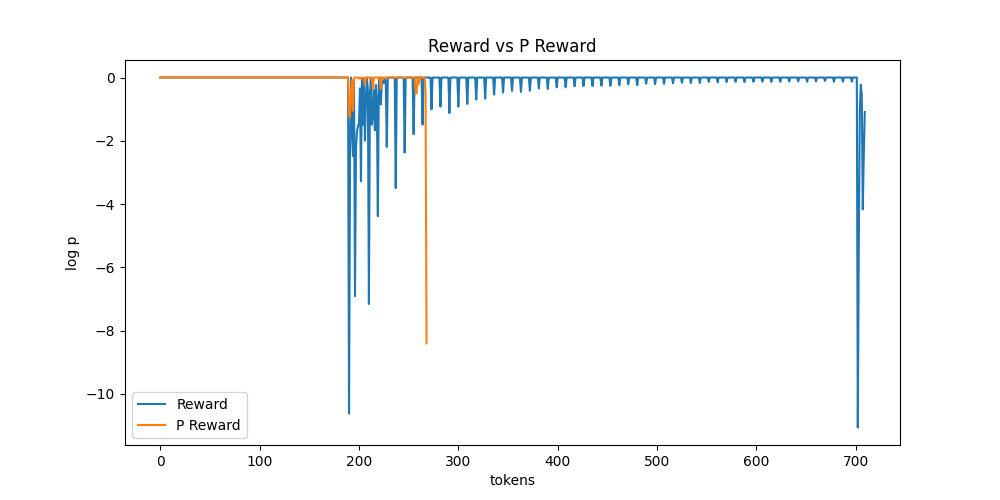
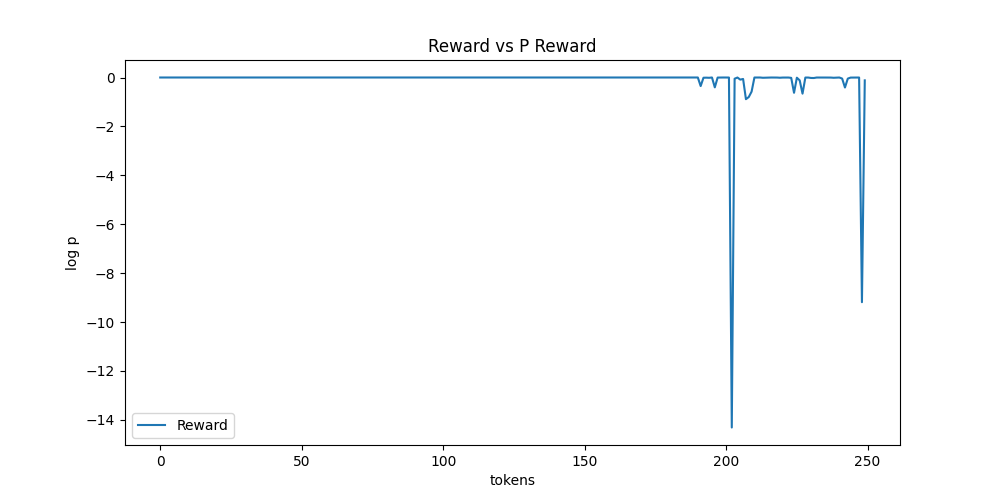
rewnorm

diff --git a/probing.py b/probing.py
@@ -25,6 +25,7 @@ import lm_eval
 import subprocess
 
 import logging
+import re
 @dataclass
 class ScriptArguments:
     """
@@ -131,9 +132,9 @@ model = AutoModelForCausalLM.from_pretrained(
 model.config.use_cache = not script_args.gradient_checkpointing
 VOCAB_SIZE = model.config.vocab_size
 
-x_str = "Answer the question based on the following example:\nQuestion: Samantha’s last name has three fewer letters than Bobbie’s last name. If Bobbie took two letters off her last name, she would have a last name twice the length of Jamie’s. Jamie’s full name is Jamie Grey. How many letters are in Samantha’s last name? Answer: There are 4 letters in Jamie’s last name, so Bobbie’s name is 4*2 +2 = 10 letters long. Samantha’s last name is 3 letters shorter than Bobbie’s, so there are 10 - 3 = 7 letters in Samantha’s last name.\nQuestion: Matthias has 40 soccer balls and 15 basketballs. 30 soccer balls and 7 basketballs have a hole in them. How many balls in total does Matthias have without holes in them?"
-xz_str = "Answer the question based on the following example:\nQuestion: Samantha’s last name has three fewer letters than Bobbie’s last name. If Bobbie took two letters off her last name, she would have a last name twice the length of Jamie’s. Jamie’s full name is Jamie Grey. How many letters are in Samantha’s last name? Answer: There are 4 letters in Jamie’s last name, so Bobbie’s name is 4*2 +2 = 10 letters long. Samantha’s last name is 3 letters shorter than Bobbie’s, so there are 10 - 3 = 7 letters in Samantha’s last name.\nQuestion: Matthias has 40 soccer balls and 15 basketballs. 30 soccer balls and 7 basketballs have a hole in them. How many balls in total does Matthias have without holes in them? That’s a lot of work, but I’m going to do it step by step. That’s the way to do it. That’s the way to do it. That’s the way to do it. That’s the way to do it. That’s the way to do it. That’s the way to do it. That’s the way to do it. That’s the way to do it. That’s the way to do it. That’s the way to do it. That’s the way to do it. That’s the way to do it. That’s the way to do it. That’s the way to do it. That’s the way to do it. That’s the way to do it. That’s the way to do it. That’s the way to do it. That’s the way to do it. That’s the way to do it. That’s the way to do it. That’s the way to do it. That’s the way to do it. That’s the way to do it. That’s the way to do it. That’s the way to do it. That’s the way to do it. That’s the way to do it. That’s the way to do it. That’s the way to do it. That’s the way to do it. That’s the way to do it. That’s the way to do it. That’s the way to do it. That’s the way to do it. That’s the way to do it. That’s the way to do it. That’s the way to do it. That’s the way to do it. That’s the way to do it. That’s the way to do it. That’s the way to do it. That’s the way to do it. That’s the way to do it. That’s the way to do it. That’s the way to do it. That’s the way to do it. That’s the way to do it. That’s the way to do it. That’s the way to do it. That’s the way to do it. That’s the way to do it. That’s the way to do it. That’s the way to do it. That’s the way to"
-xzy_str = "Answer the question based on the following example:\nQuestion: Samantha’s last name has three fewer letters than Bobbie’s last name. If Bobbie took two letters off her last name, she would have a last name twice the length of Jamie’s. Jamie’s full name is Jamie Grey. How many letters are in Samantha’s last name? Answer: There are 4 letters in Jamie’s last name, so Bobbie’s name is 4*2 +2 = 10 letters long. Samantha’s last name is 3 letters shorter than Bobbie’s, so there are 10 - 3 = 7 letters in Samantha’s last name.\nQuestion: Matthias has 40 soccer balls and 15 basketballs. 30 soccer balls and 7 basketballs have a hole in them. How many balls in total does Matthias have without holes in them? That’s a lot of work, but I’m going to do it step by step. That’s the way to do it. That’s the way to do it. That’s the way to do it. That’s the way to do it. That’s the way to do it. That’s the way to do it. That’s the way to do it. That’s the way to do it. That’s the way to do it. That’s the way to do it. That’s the way to do it. That’s the way to do it. That’s the way to do it. That’s the way to do it. That’s the way to do it. That’s the way to do it. That’s the way to do it. That’s the way to do it. That’s the way to do it. That’s the way to do it. That’s the way to do it. That’s the way to do it. That’s the way to do it. That’s the way to do it. That’s the way to do it. That’s the way to do it. That’s the way to do it. That’s the way to do it. That’s the way to do it. That’s the way to do it. That’s the way to do it. That’s the way to do it. That’s the way to do it. That’s the way to do it. That’s the way to do it. That’s the way to do it. That’s the way to do it. That’s the way to do it. That’s the way to do it. That’s the way to do it. That’s the way to do it. That’s the way to do it. That’s the way to do it. That’s the way to do it. That’s the way to do it. That’s the way to do it. That’s the way to do it. That’s the way to do it. That’s the way to do it. That’s the way to do it. That’s the way to do it. That’s the way to do it. That’s the way to do it. That’s the way to do it. That’s the way to\nThe answer is 18."
+x_str = "Question: Samantha’s last name has three fewer letters than Bobbie’s last name. If Bobbie took two letters off her last name, she would have a last name twice the length of Jamie’s. Jamie’s full name is Jamie Grey. How many letters are in Samantha’s last name?\nAnswer: There are 4 letters in Jamie’s last name, so Bobbie’s name is 4*2 +2 = 10 letters long. Samantha’s last name is 3 letters shorter than Bobbie’s, so there are 10 - 3 = 7 letters in Samantha’s last name.\nThe answer is 7.\nQuestion: Matthias has 40 soccer balls and 15 basketballs. 30 soccer balls and 7 basketballs have a hole in them. How many balls in total does Matthias have without holes in them?\nAnswer:"
+xz_str = "Question: Samantha’s last name has three fewer letters than Bobbie’s last name. If Bobbie took two letters off her last name, she would have a last name twice the length of Jamie’s. Jamie’s full name is Jamie Grey. How many letters are in Samantha’s last name?\nAnswer: There are 4 letters in Jamie’s last name, so Bobbie’s name is 4*2 +2 = 10 letters long. Samantha’s last name is 3 letters shorter than Bobbie’s, so there are 10 - 3 = 7 letters in Samantha’s last name.\nThe answer is 7.\nQuestion: Matthias has 40 soccer balls and 15 basketballs. 30 soccer balls and 7 basketballs have a hole in them. How many balls in total does Matthias have without holes in them?\nAnswer: Matthias has 40 - 30 = 10 soccer balls without holes. He has 15 - 7 = 8 basketballs without holes. In total, Matthias has 10 + 8 = 18 balls without holes."
+xzy_str = "Question: Samantha’s last name has three fewer letters than Bobbie’s last name. If Bobbie took two letters off her last name, she would have a last name twice the length of Jamie’s. Jamie’s full name is Jamie Grey. How many letters are in Samantha’s last name?\nAnswer: There are 4 letters in Jamie’s last name, so Bobbie’s name is 4*2 +2 = 10 letters long. Samantha’s last name is 3 letters shorter than Bobbie’s, so there are 10 - 3 = 7 letters in Samantha’s last name.\nThe answer is 7.\nQuestion: Matthias has 40 soccer balls and 15 basketballs. 30 soccer balls and 7 basketballs have a hole in them. How many balls in total does Matthias have without holes in them?\nAnswer: Matthias has 40 - 30 = 10 soccer balls without holes. He has 15 - 7 = 8 basketballs without holes. In total, Matthias has 10 + 8 = 18 balls without holes.\nThe answer is 18."
 y_str = xzy_str[len(xz_str):]
 
 inputs = tokenizer(x_str, return_tensors="pt")
@@ -162,43 +163,55 @@ my_loss = regularized_logp(outputs.logits, xzy_labels, VOCAB_SIZE, script_args.l
 reward = - my_loss.detach()
 print("reward=", reward)
 
-pure_rational = model.generate(input_ids=x, max_new_tokens=512, tokenizer=tokenizer, do_sample=False)
-pure_rational_str = tokenizer.decode(pure_rational[0], skip_special_tokens=True)
-print("pure_rational=", tokenizer.decode(pure_rational[0], skip_special_tokens=True))
+# pure_rational = model.generate(input_ids=x, max_new_tokens=512, tokenizer=tokenizer, do_sample=False)
+# pure_rational_str = tokenizer.decode(pure_rational[0], skip_special_tokens=True)
+# print("pure_rational=", tokenizer.decode(pure_rational[0], skip_special_tokens=True))
 
-pure_rational_tok = tokenizer(pure_rational_str, return_tensors="pt")
-pure_rational = pure_rational_tok["input_ids"].to(model.device)
-pure_rational_mask = pure_rational_tok["attention_mask"].to(model.device)
-pure_rational_labels = deepcopy(pure_rational)
+# # Extract the generated answer part
+# generated_answer_part = pure_rational_str[len(x_str):]
 
-pure_rational_y_str = pure_rational_str + y_str
-pure_rational_y_tok = tokenizer(pure_rational_y_str, return_tensors="pt")
-pure_rational_y = pure_rational_y_tok["input_ids"].to(model.device)
-pure_rational_y_mask = pure_rational_y_tok["attention_mask"].to(model.device)
-pure_rational_y_labels = deepcopy(pure_rational_y)
+# # Use regex to find "The answer is d." where d is an integer
+# # match = re.search(r"The answer is (\d+)\.", generated_answer_part)
 
-x_mask_py = torch.cat([x_mask, torch.zeros((x_mask.shape[0], pure_rational_y.shape[1] - x.shape[1]), dtype=x_mask.dtype).to(x_mask.device)], dim=1)
-x_mask_p = torch.cat([x_mask, torch.zeros((x_mask.shape[0], pure_rational.shape[1] - x.shape[1]), dtype=x_mask.dtype).to(x_mask.device)], dim=1)
+# # if match:
+# #     answer = int(match.group(1))
+# #     print(f"The answer is {answer}.")
+# # else:
+# #     print("No answer found.")
 
-p_labels = -100 * x_mask_p + pure_rational_labels * (1 - x_mask_p)
-py_labels = -100 * x_mask_py + pure_rational_y_labels * (1 - x_mask_py)
+# pure_rational_tok = tokenizer(pure_rational_str, return_tensors="pt")
+# pure_rational = pure_rational_tok["input_ids"].to(model.device)
+# pure_rational_mask = pure_rational_tok["attention_mask"].to(model.device)
+# pure_rational_labels = deepcopy(pure_rational)
 
-p_outputs = model(pure_rational, labels=p_labels, attention_mask=pure_rational_mask)
-p_loss = regularized_logp(p_outputs.logits, p_labels, VOCAB_SIZE, script_args.label_smoothing, "none")
-p_reward = - p_loss.detach()
-print("p_reward=", p_reward)
+# pure_rational_y_str = pure_rational_str + y_str
+# pure_rational_y_tok = tokenizer(pure_rational_y_str, return_tensors="pt")
+# pure_rational_y = pure_rational_y_tok["input_ids"].to(model.device)
+# pure_rational_y_mask = pure_rational_y_tok["attention_mask"].to(model.device)
+# pure_rational_y_labels = deepcopy(pure_rational_y)
+
+# x_mask_py = torch.cat([x_mask, torch.zeros((x_mask.shape[0], pure_rational_y.shape[1] - x.shape[1]), dtype=x_mask.dtype).to(x_mask.device)], dim=1)
+# x_mask_p = torch.cat([x_mask, torch.zeros((x_mask.shape[0], pure_rational.shape[1] - x.shape[1]), dtype=x_mask.dtype).to(x_mask.device)], dim=1)
+
+# p_labels = -100 * x_mask_p + pure_rational_labels * (1 - x_mask_p)
+# py_labels = -100 * x_mask_py + pure_rational_y_labels * (1 - x_mask_py)
+
+# p_outputs = model(pure_rational, labels=p_labels, attention_mask=pure_rational_mask)
+# p_loss = regularized_logp(p_outputs.logits, p_labels, VOCAB_SIZE, script_args.label_smoothing, "none")
+# p_reward = - p_loss.detach()
+# print("p_reward=", p_reward)
 
 
 import matplotlib.pyplot as plt
 
 # Assuming reward and p_reward are tensors, convert them to numpy arrays for plotting
 reward_np = reward.cpu().numpy()
-p_reward_np = p_reward.cpu().numpy()
+# p_reward_np = p_reward.cpu().numpy()
 
 # Plotting the rewards
 plt.figure(figsize=(10, 5))
 plt.plot(reward_np, label='Reward')
-plt.plot(p_reward_np, label='P Reward')
+# plt.plot(p_reward_np, label='P Reward')
 plt.xlabel('tokens')
 plt.ylabel('log p')
 plt.title('Reward vs P Reward')

diff --git a/E_step_ent_td.py b/E_step_ent_td.py
@@ -25,6 +25,7 @@ import lm_eval
 import subprocess
 
 import logging
+import copy
 @dataclass
 class ScriptArguments:
     """
@@ -131,7 +132,7 @@ data_name = train_set_path.split("/")[1]
 
 
 if script_args.model_path == "None":
-    trained_model_name = f"new_{base_model_name}_{data_name}_ent{script_args.ent_coeff}_\
+    trained_model_name = f"new_worep_rewnorm_{base_model_name}_{data_name}_ent{script_args.ent_coeff}_\
 beam{script_args.num_beams}_dosample{script_args.do_sample}_temp{script_args.temperature}_labelsm{script_args.label_smoothing}_\
 totalepoch{script_args.num_train_epochs}"
     output_name = f"/projects/p32658/Q_models/{trained_model_name}"
@@ -210,42 +211,18 @@ def padding_func(ft_ls, padding_side, pad_token_id, return_tensors):
     if return_tensors == "pt":
         return torch.tensor(padded_ft_ls)
 
-# # Create a logger
-# logger = logging.getLogger(__name__)
-# logger.setLevel(logging.DEBUG)
-
-# # Create a file handler
-# log_file = os.path.join(output_name, 'training.log')
-# file_handler = logging.FileHandler(log_file)
-# file_handler.setLevel(logging.DEBUG)
-
-# # Create a console handler
-# console_handler = logging.StreamHandler()
-# console_handler.setLevel(logging.INFO)
-
-# # Create a formatter and set it for the handlers
-# formatter = logging.Formatter('%(asctime)s - %(name)s - %(levelname)s - %(message)s')
-# file_handler.setFormatter(formatter)
-# console_handler.setFormatter(formatter)
-
-# # Add the handlers to the logger
-# logger.addHandler(file_handler)
-# logger.addHandler(console_handler)
-
-# # Example usage
-# logger.info("Logger is set up.")
-# XZYs = []
-
-
 Log_path = f"{output_name}/loggings.log"
 
 class QTrainer(Trainer):
     def __init__(self, base_model, log_path, **kwargs):
         super().__init__(**kwargs)
+        self.q_model = copy.deepcopy(self.model)
         if self.is_deepspeed_enabled:
             self.base_model = self._prepare_deepspeed(base_model)
+            self.q_model = self._prepare_deepspeed(self.q_model)
         else:
             self.base_model = self.accelerator.prepare_model(base_model, evaluation_mode=True)
+            self.q_model = self.accelerator.prepare_model(self.q_model, evaluation_mode=True)
         handler = logging.FileHandler(log_path, mode='w')
         handler.setFormatter(logging.Formatter('%(asctime)s,%(msecs)d %(name)s %(levelname)s %(message)s'))
         self.logger = logging.getLogger('testing')
@@ -258,22 +235,6 @@ class QTrainer(Trainer):
             inputs_ids_q_l = inputs["input_ids_q_l"]
             inputs_ids_a_r = inputs["input_ids_a_r"][:, 1:]
             mask_q_l = inputs["attention_mask_q_l"]
-            # print("inputs_ids_q_l.shape:", inputs_ids_q_l.shape)
-            # test_str = "Answer the question based on the following example:\nQuestion: Samantha’s last name has three fewer letters than Bobbie’s last name. If Bobbie took two letters off her last name, she would have a last name twice the length of Jamie’s. Jamie’s full name is Jamie Grey. How many letters are in Samantha’s last name? Answer: There are 4 letters in Jamie’s last name, so Bobbie’s name is 4*2 +2 = 10 letters long. Samantha’s last name is 3 letters shorter than Bobbie’s, so there are 10 - 3 = 7 letters in Samantha’s last name.\nQuestion: Corey downloaded two movie series from his Netflix account with 12 and 14 seasons per series, respectively. However, in the week, his computer got a mechanical failure, and he lost two episodes from each season for both series. If each season in the movie series that Corey downloaded had 16 episodes, how many episodes remained after the computer's mechanical failure?"
-            # input_ids = tokenizer(test_str, return_tensors="pt")["input_ids"].to(inputs_ids_q_l.device)
-            # test_rational = model.generate(input_ids=input_ids, max_new_tokens=512,\
-            #                            tokenizer=tokenizer,
-            #                           do_sample=False, top_k=-1, top_p=1.0,
-            #                           num_beams=1)
-            # test_rational_decode = tokenizer.decode(test_rational[0])
-            # print("test_rational_decode:", test_rational_decode)
-
-            xz = []
-            xz_mask = []
-            xzy = []
-            xzy_mask = []
-
-
 
             rational = model.generate(input_ids=inputs_ids_q_l, attention_mask=mask_q_l, \
                                       max_new_tokens=script_args.max_length, \
@@ -281,27 +242,30 @@ class QTrainer(Trainer):
                                     #   stop_strings=task_config.stop_str_gen_z[0], 
                                       tokenizer=tokenizer,
                                       do_sample=script_args.do_sample, temperature=script_args.temperature, top_k=50, top_p=0.95,
-                                      num_beams=script_args.num_beams)
-            # print("rational:", rational)
-            # print("rational_decode:", tokenizer.batch_decode(rational, skip_special_tokens=False))
-            # rational_logits = model(input_ids=inputs_ids_q_l, attention_mask=mask_q_l, return_dict=True).logits
-            # print("rational_logits:", rational_logits)
-            query_decode = tokenizer.batch_decode(inputs_ids_q_l, skip_special_tokens=True)
+                                      num_beams=script_args.num_beams, repetition_penalty=1.2)
+            xz = []
+            xz_mask = []
+            xzy = []
+            xzy_mask = []
+            
             rational_decode = tokenizer.batch_decode(rational, skip_special_tokens=True)
             answer_decode = tokenizer.batch_decode(inputs_ids_a_r, skip_special_tokens=True)
-            print("special_tokens:", tokenizer.special_tokens_map)
-            
-            self.logger.info(f"query_decode:{query_decode}")
-            self.logger.info(f"rational_decode:{rational_decode}")
-            self.logger.info(f"answer_decode:{answer_decode}")
-            for i in range(len(rational_decode)):
-                xz_tok = tokenizer(rational_decode[i] + "\n")
+
+            for i in range(len(rational)):
+                first_rat_ids = rational[i][len(inputs_ids_q_l[i])]
+                first_rat_tok = tokenizer.decode(first_rat_ids)
+                print("rational_decode[i]:", rational_decode[i])
+                print("first_rat_tok:", first_rat_tok)
+                if first_rat_ids in tokenizer.all_special_ids:
+                    xz_tok = tokenizer(rational_decode[i]+ first_rat_tok)
+                else:
+                    xz_tok = tokenizer(rational_decode[i])
                 xz.append(xz_tok["input_ids"])
                 xz_mask.append(xz_tok["attention_mask"])
-                
                 xzy_tok = tokenizer(rational_decode[i] + "\n" + answer_decode[i])
                 xzy.append(xzy_tok["input_ids"])
                 xzy_mask.append(xzy_tok["attention_mask"])
+            
             xz = padding_func(xz, "right", tokenizer.pad_token_id, "pt").to(inputs_ids_q_l.device)
             xz_mask = padding_func(xz_mask, "right", 0, "pt").to(inputs_ids_q_l.device)
             xz_labels = deepcopy(xz)
@@ -319,39 +283,20 @@ class QTrainer(Trainer):
 
             x_mask_zy = torch.cat([x_mask, torch.zeros((x_mask.shape[0], xzy.shape[1] - x.shape[1]), dtype=x_mask.dtype).to(x_mask.device)], dim=1)
             x_mask_z = torch.cat([x_mask, torch.zeros((x_mask.shape[0], xz.shape[1] - x.shape[1]), dtype=x_mask.dtype).to(x_mask.device)], dim=1)
-            # x_mask_zy = 1 - x_mask_zy
-            # x_mask_z = 1 - x_mask_z
 
             xz_labels = -100 * x_mask_z + xz_labels * (1 - x_mask_z)
             xzy_labels = -100 * x_mask_zy + xzy_labels * (1 - x_mask_zy)
 
-            # self.logger.info(f"xz:{xz[0]}")
-            # self.logger.info(f"xz_labels:{xz_labels[0]}")
-            # print("x: ", x[0])
-            # print("x_mask: ", x_mask[0])
-            # print("x_labels: ", x_labels[0])
-            # print("xz: ", xz[0])
-            # print("xz_mask: ", xz_mask[0])
-            # print("xz_labels: ", xz_labels[0])
-            # print("xzy: ", xzy[0])
-            # print("xzy_mask: ", xzy_mask[0])
-            # print("xzy_labels: ", xzy_labels[0])
-            # print("decode 111:", tokenizer.decode(111))
-            # print("decode 109:", tokenizer.decode(109))
-            # print("xz: ", xz[0])
-            # print("xzy: ", xzy[0])
             self.logger.info(f"decode x: {tokenizer.decode(x[0], skip_special_tokens=False)}")
             self.logger.info(f"decode xz: {tokenizer.decode(xz[0], skip_special_tokens=False)}")
             self.logger.info(f"decode xzy: {tokenizer.decode(xzy[0], skip_special_tokens=False)}")
             self.base_model.eval()
             outputs = self.base_model(xzy, labels=xzy_labels, attention_mask=xzy_mask)
-            # ce_loss, logits = outputs[:2]
             my_loss = regularized_logp_tensor(outputs.logits, xzy_labels, VOCAB_SIZE, script_args.label_smoothing)
             reward = - my_loss.detach()
-            # print("ce_loss:", ce_loss, "my_loss:", my_loss)
-            # outputs = self.base_model(x, labels=x_labels, attention_mask=x_mask)
-            # ce_loss_x, logits_x = outputs[:2]
             self.logger.info(f"reward:{reward}")
+            reward -= reward.mean()
+            self.logger.info(f"reward_norm:{reward}")
         model.train()
         outputs_Q = model(xz, labels=xz_labels, attention_mask=xz_mask)
         my_log_Q = - regularized_logp_tensor(outputs_Q.logits, xz_labels, VOCAB_SIZE, script_args.label_smoothing)

diff --git a/E_step_ent_tensor_rewnorm.py b/E_step_ent_tensor_rewnorm.py
@@ -131,7 +131,7 @@ data_name = train_set_path.split("/")[1]
 
 
 if script_args.model_path == "None":
-    trained_model_name = f"new_worep_short_{base_model_name}_{data_name}_ent{script_args.ent_coeff}_\
+    trained_model_name = f"new_worep_rewnorm_{base_model_name}_{data_name}_ent{script_args.ent_coeff}_\
 beam{script_args.num_beams}_dosample{script_args.do_sample}_temp{script_args.temperature}_labelsm{script_args.label_smoothing}_\
 totalepoch{script_args.num_train_epochs}"
     output_name = f"/projects/p32658/Q_models/{trained_model_name}"
@@ -291,6 +291,8 @@ class QTrainer(Trainer):
             my_loss = regularized_logp_tensor(outputs.logits, xzy_labels, VOCAB_SIZE, script_args.label_smoothing)
             reward = - my_loss.detach()
             self.logger.info(f"reward:{reward}")
+            reward -= reward.mean()
+            self.logger.info(f"reward_norm:{reward}")
         model.train()
         outputs_Q = model(xz, labels=xz_labels, attention_mask=xz_mask)
         my_log_Q = - regularized_logp_tensor(outputs_Q.logits, xz_labels, VOCAB_SIZE, script_args.label_smoothing)
